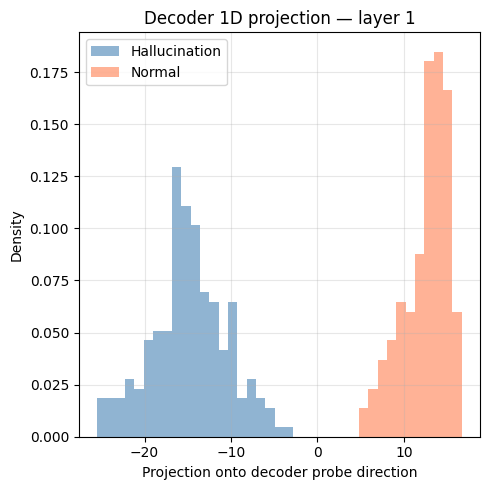
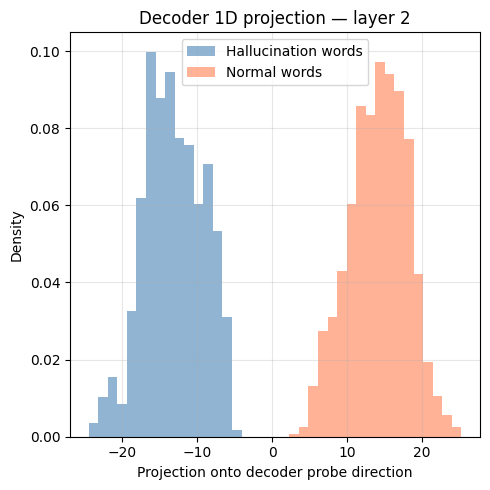
Hearing Things Part 3: ablations, revised conclusions, updated figures

diff --git a/docs/machine-learning/ml/aed-hallucination-decoder.html b/docs/machine-learning/ml/aed-hallucination-decoder.html
@@ -259,6 +259,7 @@ ul.task-list li input[type="checkbox"] {
   <li><a href="#held-out-evaluation-99-recall-99-precision" id="toc-held-out-evaluation-99-recall-99-precision" class="nav-link" data-scroll-target="#held-out-evaluation-99-recall-99-precision">Held-out evaluation: 99% recall, 99% precision</a></li>
   <li><a href="#the-errors-are-labelling-noise" id="toc-the-errors-are-labelling-noise" class="nav-link" data-scroll-target="#the-errors-are-labelling-noise">The errors are labelling noise</a></li>
   <li><a href="#where-the-signal-lives-cross-attention-not-generation" id="toc-where-the-signal-lives-cross-attention-not-generation" class="nav-link" data-scroll-target="#where-the-signal-lives-cross-attention-not-generation">Where the signal lives: cross-attention, not generation</a></li>
+  <li><a href="#ablation-ruling-out-sequence-length-confounds" id="toc-ablation-ruling-out-sequence-length-confounds" class="nav-link" data-scroll-target="#ablation-ruling-out-sequence-length-confounds">Ablation: ruling out sequence-length confounds</a></li>
   </ul></li>
   <li><a href="#interpretation" id="toc-interpretation" class="nav-link" data-scroll-target="#interpretation">Interpretation</a></li>
   </ul>
@@ -308,11 +309,12 @@ ul.task-list li input[type="checkbox"] {
 <h2 class="anchored" data-anchor-id="results">Results</h2>
 <section id="the-decoder-also-separates" class="level3">
 <h3 class="anchored" data-anchor-id="the-decoder-also-separates">The decoder also separates</h3>
-<p>Probe accuracy is above 0.99 at every decoder layer, peaking at 0.995 ± 0.006. Unlike the encoder, where the curve is flat at essentially 1.000 from the very first layer, the decoder shows a small consistent rise across its early layers before plateauing — the distinction is present from the start, but becomes slightly more linearly decodable after the first attention block processes both the generated tokens and the encoder context.</p>
+<p>One important difference from the encoder probe is the choice of training data. The encoder probe used pure silence segments — acoustically unambiguous non-speech — against dense, fluent speech. The decoder probe here uses a harder, more realistic setting: the non-speech class consists of <strong>sparse speech segments</strong> — real audio containing speech interrupted by long pauses, background noise, and extended non-speech passages. These are exactly the segments most likely to cause hallucinations in production, and they represent the worst case for linear separability. The goal is to establish whether the separation holds even when the acoustic boundary between speech and non-speech is genuinely ambiguous.</p>
+<p>The curve rises monotonically with depth, reaching above 0.97 towards the final layer. Unlike the encoder where separation is essentially complete from the very first layer, the decoder sharpens progressively — the signal is present early but becomes more linearly decodable as cross-attention information is integrated across the full stack.</p>
 <div class="quarto-figure quarto-figure-center">
 <figure class="figure">
 <p><img src="../../images/ml/decoder-probe-accuracy.png" class="img-fluid figure-img"></p>
-<figcaption>Probe accuracy across decoder layers. All layers exceed 0.99; peak accuracy is 0.995.</figcaption>
+<figcaption>Probe accuracy across decoder layers, trained on sparse speech vs hallucination. The curve rises with depth, peaking above 0.97.</figcaption>
 </figure>
 </div>
 <p>The 1D projection at the best layer shows essentially complete separation, with a gap of 7.6 pooled standard deviations between the two class centres.</p>
@@ -327,38 +329,32 @@ ul.task-list li input[type="checkbox"] {
 <h3 class="anchored" data-anchor-id="held-out-evaluation-99-recall-99-precision">Held-out evaluation: 99% recall, 99% precision</h3>
 <p>The fitted probe is evaluated on the held-out test set as a runtime hallucination detector: run the model, collect decoder activations, classify without looking at the transcript output.</p>
 <table class="caption-top table">
+<colgroup>
+<col style="width: 25%">
+<col style="width: 25%">
+<col style="width: 25%">
+<col style="width: 25%">
+</colgroup>
 <thead>
 <tr class="header">
-<th></th>
-<th style="text-align: right;">Detected</th>
-<th style="text-align: right;">Missed</th>
-<th style="text-align: right;">Recall</th>
+<th style="text-align: left;"></th>
+<th style="text-align: right;">Correct</th>
+<th style="text-align: right;">Errors</th>
+<th style="text-align: right;">Rate</th>
 </tr>
 </thead>
 <tbody>
 <tr class="odd">
-<td>Non-speech hallucinations</td>
-<td style="text-align: right;">458</td>
-<td style="text-align: right;">5</td>
-<td style="text-align: right;"><strong>0.99</strong></td>
+<td style="text-align: left;">Non-speech hallucinations</td>
+<td style="text-align: right;">458 detected</td>
+<td style="text-align: right;">5 missed</td>
+<td style="text-align: right;"><strong>recall 0.99</strong></td>
 </tr>
-</tbody>
-</table>
-<table class="caption-top table">
-<thead>
-<tr class="header">
-<th></th>
-<th style="text-align: right;">False positives</th>
-<th style="text-align: right;">True negatives</th>
-<th style="text-align: right;">Precision</th>
-</tr>
-</thead>
-<tbody>
-<tr class="odd">
-<td>Speech transcriptions</td>
-<td style="text-align: right;">6</td>
-<td style="text-align: right;">793</td>
-<td style="text-align: right;"><strong>0.99</strong></td>
+<tr class="even">
+<td style="text-align: left;">Speech transcriptions</td>
+<td style="text-align: right;">793 passed</td>
+<td style="text-align: right;">6 false positives</td>
+<td style="text-align: right;"><strong>precision 0.99</strong></td>
 </tr>
 </tbody>
 </table>
@@ -510,14 +506,48 @@ ul.task-list li input[type="checkbox"] {
 <p>This is not a pathology of the probe. It is pointing at something real. The prefix activation is the decoder’s first and only opportunity to read the encoder output without any autoregressive context. Its state at that point is entirely determined by what the encoder produced — which is itself a near-perfect linear representation of speech vs non-speech. For non-speech audio, the encoder output sits deep in the non-speech cluster; the decoder’s initial cross-attention read of that output puts it in the hallucination region before any token is generated. For speech audio, the encoder output sits in the speech cluster; the initial cross-attention puts the decoder in the normal zone, and it stays there.</p>
 <p>The implication is that the hallucination signal in the decoder is encoded primarily in the <strong>initial cross-attention state</strong>, not in the autoregressive generation. The decoder does not become progressively more “aware” that it is hallucinating as it generates tokens — it knows from the very first step, before producing a single word, because it has already read the encoder’s non-speech representation. The tokens that follow are then generated from a starting point that already carries the hallucination signal in its mean-pooled representation. The cross-attention is the mechanism; everything else is downstream.</p>
 </section>
+<section id="ablation-ruling-out-sequence-length-confounds" class="level3">
+<h3 class="anchored" data-anchor-id="ablation-ruling-out-sequence-length-confounds">Ablation: ruling out sequence-length confounds</h3>
+<p>Two potential confounds are worth addressing. The first is <strong>transcript length</strong>: hallucinated transcripts are short (typically one to three words) while normal transcripts are long. The second is <strong>audio duration</strong>: silence segments used for the hallucination class may be systematically shorter than the speech segments, meaning the decoder’s cross-attention attends over a shorter encoder sequence — and the probe might be learning this length difference rather than anything about acoustic content.</p>
+<p>Two ablations are run:</p>
+<ul>
+<li><strong>Transcript position</strong>: the probe is retrained using only the first word of each segment. At position 0, both classes are in the same place in the sequence; any remaining separation must come from cross-attention content.</li>
+<li><strong>Audio duration</strong>: the probe is retrained using only segments whose natural duration falls within the overlap window between the two classes. Segments are used whole — not trimmed — to avoid the risk of cutting a speech segment down to a silent passage.</li>
+</ul>
+<table class="caption-top table">
+<thead>
+<tr class="header">
+<th style="text-align: left;"></th>
+<th style="text-align: right;">Full probe</th>
+<th style="text-align: right;">First-word</th>
+<th style="text-align: right;">Duration-matched</th>
+</tr>
+</thead>
+<tbody>
+<tr class="odd">
+<td style="text-align: left;">First layer</td>
+<td style="text-align: right;">0.942</td>
+<td style="text-align: right;">0.927</td>
+<td style="text-align: right;">0.894</td>
+</tr>
+<tr class="even">
+<td style="text-align: left;">Last layer</td>
+<td style="text-align: right;">0.973</td>
+<td style="text-align: right;">0.972</td>
+<td style="text-align: right;">0.969</td>
+</tr>
+</tbody>
+</table>
+<p>The first-word probe barely moves — consistent with the positional confound being structurally implausible in any case, since the primary signal carrier is the prefix activation, computed before any token exists. Duration matching causes a ~5 percentage point drop in the first layer, suggesting the earliest decoder layer is somewhat sensitive to encoder sequence length; by the final layer the gap has closed to under half a point as deeper cross-attention integration takes over. Both ablations confirm that the separation is primarily grounded in acoustic content.</p>
+</section>
 </section>
 <section id="interpretation" class="level2">
 <h2 class="anchored" data-anchor-id="interpretation">Interpretation</h2>
 <p>The decoder builds its own independent representation distinguishing hallucination from normal transcription, to essentially the same accuracy as the encoder probe. The model does not merely process non-speech audio differently in the encoder — it also generates tokens differently when hallucinating. Its internal state during hallucination generation is linearly distinguishable from its state during real transcription, consistently, across all four decoder layers, with no learning beyond a logistic regression.</p>
 <p>This means the model has <strong>redundant, multilayered knowledge that it is hallucinating</strong>. The encoder has it from layer 0. The decoder builds it from generation step 1. Neither representation surfaces in the output.</p>
 <p>The suppression achieved by encoder-level steering works not because it introduces new information into the system, but because it amplifies a signal the model already possesses. The decoder probe shows the complementary side of this: the decoder would, if it had a way to act on its own internal state, be capable of flagging its output as hallucinated.</p>
-<p>The information required to suppress hallucinations is present in the model twice over — once at the input stage, once at the output stage. What is absent is any mechanism in the training objective that rewards the model for acting on it.</p>
-<p>A secondary finding worth noting: the decoder probe is precise enough to function as an approximate label auditor. Applied to a labelled dataset, it surfaces samples where the label and the audio content disagree. This is not its intended use, but it suggests that interpretability tools applied at the output-generation stage can detect annotation noise that would otherwise require manual review to find.</p>
+<p>The information required to suppress hallucinations is present in the model twice over — once at the input stage, once at the output stage. What is absent is not a training signal — non-speech and sparse-speech data were included in training, and the model does produce silence in the typical case. What is absent is a training objective that explicitly rewards the model for routing through the latent representation the probe identifies. The coupling between its internal knowledge that it is hallucinating and the decision to output EOS is loose enough to fail at the margin.</p>
+<p>A secondary finding worth noting: the decoder probe is precise enough to function as an approximate label auditor. Applied to a labelled dataset, it surfaces samples where the label and the audio content disagree. This is not its intended use, but it suggests that interpretability tools applied at the output-generation stage can detect annotation noise that are otherwise challenging to identify.</p>
 
 
 </section>
